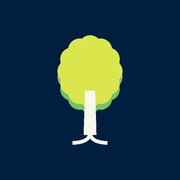
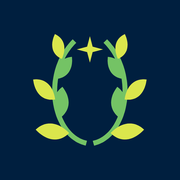
Replace tree mark with laurel wreath + star
The tree mark was a generic clip-art blob: a featureless lime mass of
overlapping ellipses with no negative space, a Mantis "shadow rim" invisible
at any real size, and a plain rectangular trunk. It also discarded every bit
of equity in the retired gold mark.

New mark is a hollow laurel wreath crowned by a four-point star, carrying the
gold mark's own vocabulary (laurel, star, arch) into the navy/lime palette.
Laurel means honour and legacy, which is the brand.

- Leaves ride each stem at angles derived from the curve's tangent, so
  spacing stays even and the sweep reads as growth rather than a fan; leaf
  length tapers toward the apex.
- No trunk inside the wreath. Tested it three ways; a vertical shaft with a
  flared base reads as a sword or torch regardless of proportion, and the
  original gold mark framed the TMF letters, not a tree.
- Emitted as real SVG beziers rather than flattened polylines: two cubics per
  leaf, one stroked cubic per stem. 19 elements, ~2.4KB, vs ~18KB of point
  data the flattened version would have inlined.
- Two densities: `full` (8 leaves/side) for display, `compact` (5, heavier)
  for favicon sizes, because a scaled-down full mark mushes below ~32px.
- Two tones: `light` (lime+mantis) for navy, `dark` (navy+green) for light
  backgrounds. Not optional -- lime on Praxeti White is 1.3:1 and vanishes.

Regenerates tmf-mark.svg, icon.svg, apple-icon.png and og.png from the same
[…]

Changed region(s): [[0.1667, 0.1944, 0.8333, 0.8056]]

diff --git a/components/ui/Logo.tsx b/components/ui/Logo.tsx
@@ -1,22 +1,40 @@
 /**
  * ============================================================================
- *  Logo — the TMF Life & Legacy tree mark and wordmark lockup.
+ *  Logo — the TMF Life & Legacy laurel mark and wordmark lockup.
  * ============================================================================
- *  The tree is inline SVG (crisp at any size, ~2KB, recolours with the theme).
- *  The wordmark is REAL TEXT in Cormorant Garamond rather than traced outlines,
- *  so it renders with the same webfont as the headlines and stays selectable.
+ *  A hollow laurel wreath crowned by a four-point star. This carries over the
+ *  vocabulary of the retired gold mark (laurel, star, arch) into the new
+ *  palette — laurel means honour and legacy, which is the brand. There is
+ *  deliberately no trunk inside the wreath: a vertical shaft with a flared
+ *  base reads as a sword, and the original mark framed the TMF letters, not a
+ *  tree.
  *
- *  The crown is brand lime/mantis at all times. The trunk and roots use
- *  `currentColor`, so the lockup adapts to its surroundings automatically:
- *     on navy  → wrap in `text-praxeti` (light trunk)
- *     on light → wrap in `text-navy`    (dark trunk)
+ *  The wordmark is REAL TEXT in Cormorant Garamond rather than traced
+ *  outlines, so it renders with the same webfont as the headlines and stays
+ *  selectable.
  *
- *  Sizes are driven by one `size` prop so the mark, wordmark and rule always
- *  stay in proportion. To change the artwork itself, edit public/tmf-mark.svg
- *  and this component together (they are the same geometry).
+ *  `detail`
+ *    "full"     8 leaves per side — display sizes (default)
+ *    "compact"  5 leaves, heavier — favicon/tiny sizes. A scaled-down full
+ *               mark turns to mush below ~32px, so it gets its own drawing.
+ *
+ *  `tone`
+ *    "light"  lime + mantis — for navy backgrounds (default)
+ *    "dark"   navy + green  — for light backgrounds. Required there: lime on
+ *             Praxeti White is only 1.3:1 and would effectively vanish.
+ *
+ *  Geometry is generated (leaves ride the stem at tangent-derived angles), so
+ *  edit public/tmf-mark.svg and this component together — same control points.
  * --------------------------------------------------------------------------*/
 
+type Tone = "light" | "dark";
+type Detail = "full" | "compact";
 type Size = "sm" | "md" | "lg";
+
+const TONES: Record<Tone, { outer: string; inner: string; stem: string; star: string }> = {
+  light: { outer: "#DBE64C", inner: "#74C365", stem: "#74C365", star: "#DBE64C" },
+  dark: { outer: "#001F3F", inner: "#00804C", stem: "#001F3F", star: "#00804C" },
+};
 
 const SIZES: Record<Size, { mark: string; tmf: string; sub: string; w: string }> = {
   sm: { mark: "h-8", tmf: "text-2xl", sub: "text-[7px]", w: "w-[86px]" },
@@ -24,94 +42,87 @@ const SIZES: Record<Size, { mark: string; tmf: string; sub: string; w: string }>
   lg: { mark: "h-16", tmf: "text-5xl", sub: "text-[10px]", w: "w-[168px]" },
 };
 
-/** Just the tree — for favicons, badges, and tight spaces. */
-export function TmfMark({ className = "h-10" }: { className?: string }) {
+/** Just the wreath — for favicons, badges, and tight spaces. */
+export function TmfMark({
+  className = "h-10",
+  tone = "light",
+  detail = "full",
+  title = "TMF Life & Legacy laurel mark",
+}: {
+  className?: string;
+  tone?: Tone;
+  detail?: Detail;
+  title?: string;
+}) {
+  const c = TONES[tone];
   return (
-    <svg
-      viewBox="0 0 100 112"
-      className={className}
-      role="img"
-      aria-label="TMF Life & Legacy tree mark"
-    >
-      <g fill="#74C365">
-        <ellipse cx="50" cy="48" rx="18.5" ry="20.5" />
-        <ellipse cx="50" cy="27" rx="10" ry="10" />
-        <ellipse cx="59" cy="29.81" rx="10" ry="10" />
-        <ellipse cx="65.59" cy="37.5" rx="10" ry="10" />
-        <ellipse cx="68" cy="48" rx="10" ry="10" />
-        <ellipse cx="65.59" cy="58.5" rx="10" ry="10" />
-        <ellipse cx="59" cy="66.19" rx="10" ry="10" />
-        <ellipse cx="50" cy="69" rx="10" ry="10" />
-        <ellipse cx="41" cy="66.19" rx="10" ry="10" />
-        <ellipse cx="34.41" cy="58.5" rx="10" ry="10" />
-        <ellipse cx="32" cy="48" rx="10" ry="10" />
-        <ellipse cx="34.41" cy="37.5" rx="10" ry="10" />
-        <ellipse cx="41" cy="29.81" rx="10" ry="10" />
-      </g>
-      <g fill="#DBE64C">
-        <ellipse cx="50" cy="43" rx="18.5" ry="20.5" />
-        <ellipse cx="50" cy="22" rx="10" ry="10" />
-        <ellipse cx="59" cy="24.81" rx="10" ry="10" />
-        <ellipse cx="65.59" cy="32.5" rx="10" ry="10" />
-        <ellipse cx="68" cy="43" rx="10" ry="10" />
-        <ellipse cx="65.59" cy="53.5" rx="10" ry="10" />
-        <ellipse cx="59" cy="61.19" rx="10" ry="10" />
-        <ellipse cx="50" cy="64" rx="10" ry="10" />
-        <ellipse cx="41" cy="61.19" rx="10" ry="10" />
-        <ellipse cx="34.41" cy="53.5" rx="10" ry="10" />
-        <ellipse cx="32" cy="43" rx="10" ry="10" />
-        <ellipse cx="34.41" cy="32.5" rx="10" ry="10" />
-        <ellipse cx="41" cy="24.81" rx="10" ry="10" />
-      </g>
-      <path
-        d="M45.60 60.00 L54.40 60.00 C54.70 75.00 55.20 86.00 55.40 98.00 L44.60 98.00 C44.80 86.00 45.30 75.00 45.60 60.00 Z"
-        fill="currentColor"
-      />
-      <path
-        d="M50.00 96.00 C50.00 102.50 43.25 104.70 35.00 105.00"
-        stroke="currentColor"
-        strokeWidth="3.2"
-        strokeLinecap="round"
-        fill="none"
-      />
-      <path
-        d="M50.00 96.00 C50.00 102.50 56.75 104.70 65.00 105.00"
-        stroke="currentColor"
-        strokeWidth="3.2"
-        strokeLinecap="round"
-        fill="none"
-      />
+    <svg viewBox="0 0 100 112" className={className} role="img" aria-label={title}>
+      {detail === "full" ? (
+        <g>
+        <path d="M47.00 101.00C19.00 95.00 9.00 43.00 37.00 15.00" fill="none" stroke={c.stem} strokeWidth="2.60" strokeLinecap="round" />
+        <path d="M34.38 94.30C26.14 87.94 16.62 86.98 9.59 93.79C18.40 100.77 27.84 101.07 34.38 94.30Z" fill={c.outer} />
+        <path d="M28.65 87.46C34.47 80.43 33.59 71.56 26.25 64.11C20.35 71.60 21.86 80.47 28.65 87.46Z" fill={c.inner} />
+        <path d="M24.33 78.99C20.14 70.56 12.77 66.01 4.36 68.77C8.76 77.94 16.32 81.92 24.33 78.99Z" fill={c.outer} />
+        <path d="M21.53 69.32C28.75 65.43 31.01 57.73 27.39 49.03C19.95 53.29 18.21 61.20 21.53 69.32Z" fill={c.inner} />
+        <path d="M20.37 58.87C19.40 50.50 14.59 44.43 6.67 44.20C7.59 53.25 12.74 58.90 20.37 58.87Z" fill={c.outer} />
+        <path d="M20.98 48.05C28.18 46.88 32.33 41.07 31.83 32.72C24.33 34.12 20.57 40.26 20.98 48.05Z" fill={c.inner} />
+        <path d="M23.47 37.28C25.16 30.04 22.96 23.56 16.45 21.01C14.52 28.81 17.12 35.03 23.47 37.28Z" fill={c.outer} />
+        <path d="M27.96 26.98C34.21 28.31 39.43 24.88 41.66 17.90C35.10 16.68 30.09 20.50 27.96 26.98Z" fill={c.inner} />
+        <path d="M53.00 101.00C81.00 95.00 91.00 43.00 63.00 15.00" fill="none" stroke={c.stem} strokeWidth="2.60" strokeLinecap="round" />
+        <path d="M65.62 94.30C72.16 101.07 81.60 100.77 90.41 93.79C83.38 86.98 73.86 87.94 65.62 94.30Z" fill={c.outer} />
+        <path d="M71.35 87.46C78.14 80.47 79.65 71.60 73.75 64.11C66.41 71.56 65.53 80.43 71.35 87.46Z" fill={c.inner} />
+        <path d="M75.67 78.99C83.68 81.92 91.24 77.94 95.64 68.77C87.23 66.01 79.86 70.56 75.67 78.99Z" fill={c.outer} />
+        <path d="M78.47 69.32C81.79 61.20 80.05 53.29 72.61 49.03C68.99 57.73 71.25 65.43 78.47 69.32Z" fill={c.inner} />
+        <path d="M79.63 58.87C87.26 58.90 92.41 53.25 93.33 44.20C85.41 44.43 80.60 50.50 79.63 58.87Z" fill={c.outer} />
+        <path d="M79.02 48.05C79.43 40.26 75.67 34.12 68.17 32.72C67.67 41.07 71.82 46.88 79.02 48.05Z" fill={c.inner} />
+        <path d="M76.53 37.28C82.88 35.03 85.48 28.81 83.55 21.01C77.04 23.56 74.84 30.04 76.53 37.28Z" fill={c.outer} />
+        <path d="M72.04 26.98C69.91 20.50 64.90 16.68 58.34 17.90C60.57 24.88 65.79 28.31 72.04 26.98Z" fill={c.inner} />
+        <path d="M50.00 14.50L51.99 22.00L59.50 24.00L51.99 26.00L50.00 33.50L48.01 26.00L40.50 24.00L48.01 22.00Z" fill={c.star} />
+        </g>
+      ) : (
+        <g>
+        <path d="M47.00 101.00C19.00 95.00 9.00 43.00 37.00 15.00" fill="none" stroke={c.stem} strokeWidth="4.20" strokeLinecap="round" />
+        <path d="M32.52 92.44C23.68 83.35 12.94 81.35 4.39 89.62C13.83 99.53 24.52 100.67 32.52 92.44Z" fill={c.outer} />
+        <path d="M24.69 79.90C33.64 73.53 34.57 63.52 26.90 53.53C17.71 60.40 17.59 70.55 24.69 79.90Z" fill={c.inner} />
+        <path d="M20.73 64.17C19.22 53.07 12.65 46.01 2.23 47.39C3.74 59.39 10.73 65.81 20.73 64.17Z" fill={c.outer} />
+        <path d="M21.14 46.96C30.74 46.29 36.01 39.25 34.85 28.27C24.85 29.20 20.11 36.72 21.14 46.96Z" fill={c.inner} />
+        <path d="M26.40 30.00C30.40 21.14 28.83 12.92 20.53 9.13C16.10 18.65 18.28 26.60 26.40 30.00Z" fill={c.outer} />
+        <path d="M53.00 101.00C81.00 95.00 91.00 43.00 63.00 15.00" fill="none" stroke={c.stem} strokeWidth="4.20" strokeLinecap="round" />
+        <path d="M67.48 92.44C75.48 100.67 86.17 99.53 95.61 89.62C87.06 81.35 76.32 83.35 67.48 92.44Z" fill={c.outer} />
+        <path d="M75.31 79.90C82.41 70.55 82.29 60.40 73.10 53.53C65.43 63.52 66.36 73.53 75.31 79.90Z" fill={c.inner} />
+        <path d="M79.27 64.17C89.27 65.81 96.26 59.39 97.77 47.39C87.35 46.01 80.78 53.07 79.27 64.17Z" fill={c.outer} />
+        <path d="M78.86 46.96C79.89 36.72 75.15 29.20 65.15 28.27C63.99 39.25 69.26 46.29 78.86 46.96Z" fill={c.inner} />
+        <path d="M73.60 30.00C81.72 26.60 83.90 18.65 79.47 9.13C71.17 12.92 69.60 21.14 73.60 30.00Z" fill={c.outer} />
+        <path d="M50.00 11.00L52.31 19.69L61.00 22.00L52.31 24.31L50.00 33.00L47.69 24.31L39.00 22.00L47.69 19.69Z" fill={c.star} />
+        </g>
+      )}
     </svg>
   );
 }
 
 /**
- * The full vertical lockup: tree over "TMF" over a rule over "LIFE & LEGACY".
- * Decorative by default — the parent <Link> carries the accessible label.
+ * The full vertical lockup: wreath over "TMF" over a rule over "LIFE & LEGACY".
+ * The text colour comes from `currentColor`, so wrap in `text-praxeti` on navy
+ * or `text-navy` on light — and pass the matching `tone`.
  */
 export default function Logo({
   size = "md",
+  tone = "light",
   className = "",
 }: {
   size?: Size;
+  tone?: Tone;
   className?: string;
 }) {
   const s = SIZES[size];
   return (
-    <span
-      className={`inline-flex flex-col items-center ${s.w} ${className}`}
-      aria-hidden
-    >
-      <TmfMark className={s.mark} />
-      <span
-        className={`font-cormorant font-semibold leading-[0.92] tracking-[0.02em] ${s.tmf}`}
-      >
+    <span className={`inline-flex flex-col items-center ${s.w} ${className}`} aria-hidden>
+      <TmfMark className={s.mark} tone={tone} />
+      <span className={`font-cormorant font-semibold leading-[0.92] tracking-[0.02em] ${s.tmf}`}>
         TMF
       </span>
       <span className="mt-0.5 h-px w-full bg-current opacity-40" />
-      <span
-        className={`mt-1 font-sans uppercase leading-none tracking-[0.3em] opacity-90 ${s.sub}`}
-      >
+      <span className={`mt-1 font-sans uppercase leading-none tracking-[0.3em] opacity-90 ${s.sub}`}>
         Life &amp; Legacy
       </span>
     </span>

diff --git a/DESIGN.md b/DESIGN.md
@@ -118,25 +118,53 @@ Measured against `navy` `#001F3F`:
 
 ## 6. Logo & motifs
 
-The mark is a **tree** — roots, trunk, canopy — for legacy, growth and
-generations. It lives in `components/ui/Logo.tsx`:
+The mark is a **hollow laurel wreath crowned by a four-point star**. It carries
+the vocabulary of the retired gold mark — laurel, star, arch — into the new
+palette. Laurel means honour and legacy, which is the brand; a generic tree
+does not.
 
-- The tree is **inline SVG** (~2KB): a lime crown built from overlapping
-  ellipses for an organic scalloped edge, painted twice with a 5px vertical
-  offset so `mantis` survives only as a shadow rim along the bottom (a crown
-  lit from above, from one shape definition).
-- The trunk and roots use **`currentColor`**, so the lockup adapts to context:
-  wrap in `text-praxeti` on navy, `text-navy` on light.
-- The **`TMF` wordmark is real text** in Cormorant Garamond, not traced
-  outlines — same webfont as the headlines, and it stays selectable.
-- `Logo` renders the full vertical lockup (tree / TMF / rule / LIFE & LEGACY);
-  `TmfMark` renders the tree alone for tight spaces.
+It lives in `components/ui/Logo.tsx`:
 
-Standalone assets, all generated from the same geometry:
-`public/tmf-mark.svg` (tree), `app/icon.svg` (favicon — navy rounded tile so
-it reads on any tab colour), `app/apple-icon.png` (180×180),
-`public/og.png` (1200×630 share card).
+- Two laurel branches sweep up and inward from a shared base. Leaves ride each
+  stem at angles derived from the curve's **tangent**, so spacing stays even
+  and the sweep reads as growth rather than a fan. Leaf length tapers toward
+  the apex.
+- **No trunk inside the wreath.** A vertical shaft with a flared base reads as
+  a sword or torch — award/military iconography, wrong for life insurance. The
+  original gold mark framed the *TMF letters*, not a tree.
+- Emitted as real SVG **béziers** — each leaf is two cubic segments, each stem
+  one stroked cubic. 19 elements, ~2.4KB, small enough to inline and still
+  hand-editable.
 
-Echo the mark throughout: **leaf/canopy curves**, **thin green rule lines**,
-and a very faint green radial glow (`.radial-glow`) behind the hero and on
-dark CTA bands. Keep lime as an accent, never a flood.
+Two **densities**, because a scaled-down full mark turns to mush below ~32px:
+
+| `detail`  | Leaves/side | Use            |
+| --------- | ----------- | -------------- |
+| `full`    | 8           | Display sizes  |
+| `compact` | 5, heavier  | Favicon, ≤32px |
+
+Two **tones** — this one is not optional:
+
+| `tone`  | Colors        | Background     |
+| ------- | ------------- | -------------- |
+| `light` | lime + mantis | navy           |
+| `dark`  | navy + green  | Praxeti White  |
+
+⚠ **Lime on Praxeti White is 1.3:1** — the wreath would effectively disappear.
+Any placement on a light section must pass `tone="dark"`.
+
+`Logo` renders the full vertical lockup (wreath / TMF / rule / LIFE & LEGACY);
+`TmfMark` renders the wreath alone. The **`TMF` wordmark is real text** in
+Cormorant Garamond, not traced outlines — same webfont as the headlines, and
+it stays selectable. Lockup text uses `currentColor`, so wrap in
+`text-praxeti` on navy or `text-navy` on light, and pass the matching `tone`.
+
+Standalone assets, all generated from the same control points:
+`public/tmf-mark.svg` (wreath), `app/icon.svg` (favicon — compact wreath on a
+navy rounded tile so it reads on any tab colour), `app/apple-icon.png`
+(180×180), `public/og.png` (1200×630 share card).
+
+Echo the mark throughout: **laurel leaf curves**, the **four-point star** as a
+small accent, **thin green rule lines**, and a very faint green radial glow
+(`.radial-glow`) behind the hero and on dark CTA bands. Keep lime as an accent,
+never a flood.

diff --git a/README.md b/README.md
@@ -44,7 +44,7 @@ Every push to your main branch redeploys automatically.
 | -------------------------------- | --------------------------------------------------------- |
 | **Any text, stat, product, testimonial, FAQ, nav link, CTA label** | **`data/site-content.ts`** ← start here for almost everything |
 | **Phone / email / address / licensed states** | `data/site-content.ts` → `contact`           |
-| **The logo**                     | `components/ui/Logo.tsx` (inline SVG tree + Cormorant wordmark) — see DESIGN.md §6 |
+| **The logo**                     | `components/ui/Logo.tsx` (inline SVG laurel wreath + Cormorant wordmark) — see DESIGN.md §6 |
 | **Colors, fonts, shadows**       | `tailwind.config.ts` (mirrored in `app/globals.css`)      |
 | **Contact email**                | `data/site-content.ts` → `contact.email` (or `NEXT_PUBLIC_CONTACT_EMAIL`) |
 | **SEO title / description / OG** | `data/site-content.ts` → `seo`                            |
@@ -80,11 +80,11 @@ components/
 data/
   site-content.ts   ← ALL editable copy & data
 public/
-  tmf-mark.svg      the tree mark, standalone
+  tmf-mark.svg      the laurel mark, standalone
   og.png            1200x630 social share card
   TMF_logo*.png     the retired gold logo (kept for reference; unreferenced)
 app/
-  icon.svg          favicon (navy tile + tree)
+  icon.svg          favicon (navy tile + compact wreath)
   apple-icon.png    180x180 touch icon
 DESIGN.md           the design system (tokens, scale, components)
 tailwind.config.ts  theme tokens (colors, fonts, shadows)
